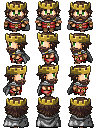
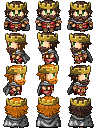
Working on showing actual health

diff --git a/kingslayer/src/game/view/InfoPanel.java b/kingslayer/src/game/view/InfoPanel.java
@@ -2,6 +2,8 @@ package game.view;
 
 import game.model.game.model.ClientGameModel;
 import game.model.game.model.GameModel;
+import game.model.game.model.team.Role;
+import game.model.game.model.worldObject.entity.Entity;
 import javafx.scene.ImageCursor;
 import javafx.scene.layout.*;
 import javafx.scene.paint.Color;
@@ -25,7 +27,17 @@ public class InfoPanel extends Region {
             new CornerRadii(3),
             new BorderWidths(10))));
         this.setBackground(new Background(new BackgroundFill(Color.BLACK, new CornerRadii(3), null)));
-        Text text = new Text("KING HP: 100     SLAYER HP: 100   SLAYER XP: 0    SLAYER LEVEL: 1");
+        double kingHealth = 10;
+        double slayerHealth = 10;
+        for(Entity e: model.getAllEntities()) {
+            if (e.team == model.getLocalPlayer().team) {
+                if (e.role == Role.KING)
+                    kingHealth = e.data.health;
+                else if (e.role == Role.SLAYER)
+                    slayerHealth = e.data.health;
+            }
+        }
+        Text text = new Text("KING HP: " + kingHealth + "     SLAYER HP: " + slayerHealth + "   SLAYER XP: 0    SLAYER LEVEL: 1");
         text.setFont(new Font(20));
         text.setFill(Color.WHITE);
         text.setLayoutX(10);

diff --git a/kingslayer/src/images/Images.java b/kingslayer/src/images/Images.java
@@ -18,7 +18,7 @@ public abstract class Images {
 
     public static Image TILE_IMAGE = getImage("tile_map.png");
     public static Image MENU_SPASH_BG_IMAGE = getImage("castleSplash.jpg");
-    public static final Image[] METAL_IMAGES = getImages("iron_ingots.png",
+    public static final Image[] METAL_IMAGES = getImages("iron_ingots_new.png",
         "iron_ingots_1.png","iron_ingots_3.png","iron_ingots_4.png","iron_ingots_5.png", "iron_ingots_6.png",
         "iron_ingots_7.png", "iron_ingots_8.png", "iron_ingots_9.png");
     public static final Image[] STONE_IMAGES = getImages("boulder_tall.png","boulder_1.png","boulder_2.png","boulder_3.png",

diff --git a/kingslayer/src/game/view/GameView.java b/kingslayer/src/game/view/GameView.java
@@ -1,5 +1,7 @@
 package game.view;
 
+import game.message.toServer.GoDirectionRequest;
+import game.message.toServer.StopRequest;
 import game.model.game.model.ClientGameModel;
 import javafx.animation.AnimationTimer;
 import javafx.scene.Group;
